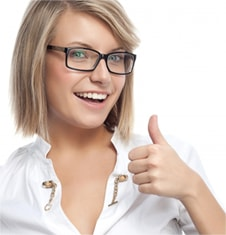
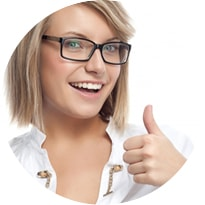
otziv

diff --git a/public/css/style.min.css b/public/css/style.min.css
@@ -1,1 +1,1 @@
-/*! normalize.css v7.0.0 | MIT License | github.com/necolas/normalize.css */html{line-height:1.15;-ms-text-size-adjust:100%;-webkit-text-size-adjust:100%}body{margin:0}article,aside,footer,header,nav,section{display:block}h1{font-size:2em;margin:.67em 0}figcaption,figure,main{display:block}figure{margin:1em 40px}hr{box-sizing:content-box;height:0;overflow:visible}pre{font-family:monospace,monospace;font-size:1em}a{background-color:transparent;-webkit-text-decoration-skip:objects}abbr[title]{border-bottom:none;text-decoration:underline;text-decoration:underline dotted}b,strong{font-weight:inherit}b,strong{font-weight:bolder}code,kbd,samp{font-family:monospace,monospace;font-size:1em}dfn{font-style:italic}mark{background-color:#ff0;color:#000}small{font-size:80%}sub,sup{font-size:75%;line-height:0;position:relative;vertical-align:baseline}sub{bottom:-.25em}sup{top:-.5em}audio,video{display:inline-block}audio:not([controls]){display:none;height:0}img{border-style:none}svg:not(:root){overflow:hidden}button,input,optgroup,select,textarea{font-family:sans-serif;font-size:100%;line-height:1.15;margin:0}button,input{overflow:visible}button,select{text-transform:none}[type=reset],[type=submit],button,html [type=button]{-webkit-appearance:button}[type=button]::-moz-focus-inner,[type=reset]::-moz-focus-inner,[type=submit]::-moz-focus-inner,button::-moz-focus-inner{border-style:none;padding:0}[type=button]:-moz-focusring,[type=reset]:-moz-focusring,[type=submit]:-moz-focusring,button:-moz-focusring{outline:1px dotted ButtonText}fieldset{padding:.35em .75em .625em}legend{box-sizing:border-box;color:inherit;display:table;max-width:100%;padding:0;white-space:normal}progress{display:inline-block;vertical-align:baseline}textarea{overflow:auto}[type=checkbox],[type=radio]{box-sizing:border-box;padding:0}[type=number]::-webkit-inner-spin-button,[type=number]::-webkit-outer-spin-button{height:auto}[type=search]{-webkit-appearance:textfield;outline-offset:-2px}[type=search]::-webkit-search-cancel-button,[type=search]::-webkit-search-decoration{-webkit-appearance:none}::-webkit-file-upload-button{-webkit-appearance:button;font:inherit}details,menu{display:block}summary{display:list-item}canvas{display:inline-block}template{display:none}[hidden]{display:none}.slick-slider{position:relative;display:block;box-sizing:border-box;-webkit-touch-callout:none;-webkit-user-select:none;-khtml-user-select:none;-moz-user-select:none;-ms-user-select:none;user-select:none;-ms-touch-action:pan-y;touch-action:pan-y;-webkit-tap-highlight-color:transparent}.slick-slider a:focus,.slick-slider img:focus{outline:0}.slick-list{position:relative;overflow:hidden;display:block;margin:0;padding:0}.slick-list:focus{outline:0}.slick-list.dragging{cursor:pointer;cursor:hand}.slick-slider .slick-list,.slick-slider .slick-track{-webkit-transform:translate3d(0,0,0);-moz-transform:translate3d(0,0,0);-ms-transform:translate3d(0,0,0);-o-transform:translate3d(0,0,0);transform:translate3d(0,0,0)}.slick-track{position:relative;left:0;top:0;display:block}.slick-track:after,.slick-track:before{content:"";display:table}.slick-track:after{clear:both}.slick-loading .slick-track{visibility:hidden}.slick-slide{float:left;height:100%;min-height:1px;display:none}[dir=rtl] .slick-slide{float:right}.slick-slide img{display:block}.slick-slide.slick-loading img{display:none}.slick-slide:focus{outline:0}.slick-slide.dragging img{pointer-events:none}.slick-initialized .slick-slide{display:block}.slick-loading .slick-slide{visibility:hidden}.slick-vertical .slick-slide{display:block;height:auto;border:1px solid transparent}.slick-arrow.slick-hidden{display:none}*{box-sizing:border-box}:after,:before{box-sizing:border-box}.clearfix:after{content:"";display:block;clear:both}h1{font-weight:400;font-size:26px;margin:0 0 35px;color:#111}h2{font-weight:400;font-size:42px;margin:0 0 20px;color:#111}h3{font-weight:400;font-size:20px;margin:0 0 20px;color:#111}a{transition:all .2s ease;color:#454445;text-decoration:none}a:hover{text-decoration:none}a[href^="tel:"]{text-decoration:none;color:#454445;cursor:default}ul{margin:0;padding:6px 0}li{list-style-type:none}p{margin:0 0 20px;line-height:1.4}html{font-size:100%;-webkit-tap-highlight-color:transparent}body{font-family:Ubuntu,sans-serif;font-weight:400;font-size:14px;color:#454445}.wrap{width:1180px;margin:0 auto;padding:0 20px}.page-section{padding:60px 0}.page-section h1,.page-section h2{text-align:center}.page-section--grey{background-color:#f8f8f8}.page-section__subtitle{text-align:center;margin-bottom:40px}.page-section__text{text-align:center;max-width:80%;margin:0 auto}.header__top{background-color:#454445}.header__top-list{display:flex;justify-content:flex-end}.header__top-list li{display:inline-block;margin-left:16px}.header__top-list ul :nth-child(4){background-color:#fc5835;padding:1px 11px;border-radius:5px}.header__top-list a{color:#fff}.header__middle{display:flex;justify-content:space-between}.header__middle-logo{margin:auto 0}.header__middle-text{margin:auto 0}.header__middle-text p{margin:0}.header__middle-btn{margin:auto 0}.header__middle-btn a{display:block;border:1px solid #159493;padding:6px 20px;border-radius:23px;color:#159493}.header__middle-btn a:hover{background-color:#159493;color:#fff}.header__middle-contacts p:nth-child(1){margin:10px 0;font-size:25.5px}.header__middle-contacts a:nth-child(2){color:#fc5835;margin:0;font-size:17px}.header__middle-contacts a:nth-child(2):hover{color:#fda594}.header__middle-contacts p:nth-child(3){margin:0;font-size:15.1px;margin-bottom:10px}.header__bottom{border-top:1px solid #dcdcdc;box-shadow:0 9px 20px 0 rgba(45,44,45,.24)}.header__bottom-list{display:flex;justify-content:space-between}.header__bottom-list li{padding:10px 0}.header__bottom-list a:hover{color:#fc5835}.content{margin-top:25px;display:flex;justify-content:space-between}.sidebar{width:275px}.sidebar-state{border:1px solid #dcdcdc;box-shadow:0 4px 9px 0 rgba(45,44,45,.2);margin-bottom:20px}.sidebar-state p{margin:20px 0 20px;text-align:center}.sidebar-state form{text-align:center;margin-bottom:20px}.sidebar-state form input{border-color:#454445;padding:10px 28px;border-radius:33px;background-image:url(../images/search.png);background-repeat:no-repeat;background-position:left center;background-position:10px;outline:0}.sidebar-fastorder{display:flex;justify-content:center;border:1px solid #dcdcdc;box-shadow:0 4px 9px 0 rgba(45,44,45,.2);margin-bottom:20px}.sidebar-fastorder a{margin:20px 20px 20px 0}.sidebar-fastorder p{margin:auto 0}.sidebar-news h4{margin-bottom:0}.sidebar-news p{margin:10px 0 20px 0}.sidebar-news a{color:#fc5835}.section{width:820px}.section h1{text-align:center;margin-top:35px}.section-banner{background-image:url(../images/banner.jpg);height:194px;box-shadow:0 4px 9px 0 rgba(45,44,45,.2)}.section-banner__text{color:#fff;padding-left:240px;padding-top:45px}.section-banner__text p{padding:0;margin:0;line-height:.9}.section-banner__text p:nth-child(1){font-size:39px;font-weight:900}.section-banner__text p:nth-child(2){font-size:57px;font-weight:900}.section-banner__text p:nth-child(3){font-size:21px;font-weight:300}.section-katalog{display:flex;justify-content:space-between;flex-wrap:wrap}.section-katalog--wrap{width:252px;height:237px;display:flex;justify-content:space-between;margin-bottom:20px;box-shadow:0 4px 9px 0 rgba(45,44,45,.2)}.section-katalog--wrap p{margin:82% 10px 10px 10px;color:#fff}.section-katalog__card{background-image:url(../images/card.jpg)}.section-katalog__listovki{background-image:url(../images/listovki.jpg)}.section-katalog__buklet{background-image:url(../images/buklet.jpg)}.section-katalog__plakat{background-image:url(../images/plakat.jpg)}.section-katalog__kalendar{background-image:url(../images/kalendar.jpg)}.section-katalog__broshura{background-image:url(../images/broshura.jpg)}.section-katalog__book{background-image:url(../images/book.jpg)}.section-katalog__pechat{background-image:url(../images/pechat.jpg)}.section-katalog__more{background-image:url(../images/more.jpg)}.section-otziv__i--text{width:67%}.section-otziv__i--photo{width:33%}.otziv-wrapper{display:flex;justify-content:space-around}.footer{background-color:#292825;padding:25px 0;color:rgba(255,255,255,.7);font-size:16px}.footer__wrap{display:flex;justify-content:space-between}.footer__soc a{display:inline-block;margin-left:10px}.footer__soc a:hover{opacity:.7}
+/*! normalize.css v7.0.0 | MIT License | github.com/necolas/normalize.css */html{line-height:1.15;-ms-text-size-adjust:100%;-webkit-text-size-adjust:100%}body{margin:0}article,aside,footer,header,nav,section{display:block}h1{font-size:2em;margin:.67em 0}figcaption,figure,main{display:block}figure{margin:1em 40px}hr{box-sizing:content-box;height:0;overflow:visible}pre{font-family:monospace,monospace;font-size:1em}a{background-color:transparent;-webkit-text-decoration-skip:objects}abbr[title]{border-bottom:none;text-decoration:underline;text-decoration:underline dotted}b,strong{font-weight:inherit}b,strong{font-weight:bolder}code,kbd,samp{font-family:monospace,monospace;font-size:1em}dfn{font-style:italic}mark{background-color:#ff0;color:#000}small{font-size:80%}sub,sup{font-size:75%;line-height:0;position:relative;vertical-align:baseline}sub{bottom:-.25em}sup{top:-.5em}audio,video{display:inline-block}audio:not([controls]){display:none;height:0}img{border-style:none}svg:not(:root){overflow:hidden}button,input,optgroup,select,textarea{font-family:sans-serif;font-size:100%;line-height:1.15;margin:0}button,input{overflow:visible}button,select{text-transform:none}[type=reset],[type=submit],button,html [type=button]{-webkit-appearance:button}[type=button]::-moz-focus-inner,[type=reset]::-moz-focus-inner,[type=submit]::-moz-focus-inner,button::-moz-focus-inner{border-style:none;padding:0}[type=button]:-moz-focusring,[type=reset]:-moz-focusring,[type=submit]:-moz-focusring,button:-moz-focusring{outline:1px dotted ButtonText}fieldset{padding:.35em .75em .625em}legend{box-sizing:border-box;color:inherit;display:table;max-width:100%;padding:0;white-space:normal}progress{display:inline-block;vertical-align:baseline}textarea{overflow:auto}[type=checkbox],[type=radio]{box-sizing:border-box;padding:0}[type=number]::-webkit-inner-spin-button,[type=number]::-webkit-outer-spin-button{height:auto}[type=search]{-webkit-appearance:textfield;outline-offset:-2px}[type=search]::-webkit-search-cancel-button,[type=search]::-webkit-search-decoration{-webkit-appearance:none}::-webkit-file-upload-button{-webkit-appearance:button;font:inherit}details,menu{display:block}summary{display:list-item}canvas{display:inline-block}template{display:none}[hidden]{display:none}.slick-slider{position:relative;display:block;box-sizing:border-box;-webkit-touch-callout:none;-webkit-user-select:none;-khtml-user-select:none;-moz-user-select:none;-ms-user-select:none;user-select:none;-ms-touch-action:pan-y;touch-action:pan-y;-webkit-tap-highlight-color:transparent}.slick-slider a:focus,.slick-slider img:focus{outline:0}.slick-list{position:relative;overflow:hidden;display:block;margin:0;padding:0}.slick-list:focus{outline:0}.slick-list.dragging{cursor:pointer;cursor:hand}.slick-slider .slick-list,.slick-slider .slick-track{-webkit-transform:translate3d(0,0,0);-moz-transform:translate3d(0,0,0);-ms-transform:translate3d(0,0,0);-o-transform:translate3d(0,0,0);transform:translate3d(0,0,0)}.slick-track{position:relative;left:0;top:0;display:block}.slick-track:after,.slick-track:before{content:"";display:table}.slick-track:after{clear:both}.slick-loading .slick-track{visibility:hidden}.slick-slide{float:left;height:100%;min-height:1px;display:none}[dir=rtl] .slick-slide{float:right}.slick-slide img{display:block}.slick-slide.slick-loading img{display:none}.slick-slide:focus{outline:0}.slick-slide.dragging img{pointer-events:none}.slick-initialized .slick-slide{display:block}.slick-loading .slick-slide{visibility:hidden}.slick-vertical .slick-slide{display:block;height:auto;border:1px solid transparent}.slick-arrow.slick-hidden{display:none}*{box-sizing:border-box}:after,:before{box-sizing:border-box}.clearfix:after{content:"";display:block;clear:both}h1{font-weight:400;font-size:26px;margin:0 0 35px;color:#111}h2{font-weight:400;font-size:42px;margin:0 0 20px;color:#111}h3{font-weight:400;font-size:20px;margin:0 0 20px;color:#111}a{transition:all .2s ease;color:#454445;text-decoration:none}a:hover{text-decoration:none}a[href^="tel:"]{text-decoration:none;color:#454445;cursor:default}ul{margin:0;padding:6px 0}li{list-style-type:none}p{margin:0 0 20px;line-height:1.4}html{font-size:100%;-webkit-tap-highlight-color:transparent}body{font-family:Ubuntu,sans-serif;font-weight:400;font-size:14px;color:#454445}.wrap{width:1180px;margin:0 auto;padding:0 20px}.page-section{padding:60px 0}.page-section h1,.page-section h2{text-align:center}.page-section--grey{background-color:#f8f8f8}.page-section__subtitle{text-align:center;margin-bottom:40px}.page-section__text{text-align:center;max-width:80%;margin:0 auto}.header__top{background-color:#454445}.header__top-list{display:flex;justify-content:flex-end}.header__top-list li{display:inline-block;margin-left:16px}.header__top-list ul :nth-child(4){background-color:#fc5835;padding:1px 11px;border-radius:5px}.header__top-list a{color:#fff}.header__middle{display:flex;justify-content:space-between}.header__middle-logo{margin:auto 0}.header__middle-text{margin:auto 0}.header__middle-text p{margin:0}.header__middle-btn{margin:auto 0}.header__middle-btn a{display:block;border:1px solid #159493;padding:6px 20px;border-radius:23px;color:#159493}.header__middle-btn a:hover{background-color:#159493;color:#fff}.header__middle-contacts p:nth-child(1){margin:10px 0;font-size:25.5px}.header__middle-contacts a:nth-child(2){color:#fc5835;margin:0;font-size:17px}.header__middle-contacts a:nth-child(2):hover{color:#fda594}.header__middle-contacts p:nth-child(3){margin:0;font-size:15.1px;margin-bottom:10px}.header__bottom{border-top:1px solid #dcdcdc;box-shadow:0 9px 20px 0 rgba(45,44,45,.24)}.header__bottom-list{display:flex;justify-content:space-between}.header__bottom-list li{padding:10px 0}.header__bottom-list a:hover{color:#fc5835}.content{margin-top:25px;display:flex;justify-content:space-between}.sidebar{width:275px}.sidebar-state{border:1px solid #dcdcdc;box-shadow:0 4px 9px 0 rgba(45,44,45,.2);margin-bottom:20px}.sidebar-state p{margin:20px 0 20px;text-align:center}.sidebar-state form{text-align:center;margin-bottom:20px}.sidebar-state form input{border-color:#454445;padding:10px 28px;border-radius:33px;background-image:url(../images/search.png);background-repeat:no-repeat;background-position:left center;background-position:10px;outline:0}.sidebar-fastorder{display:flex;justify-content:center;border:1px solid #dcdcdc;box-shadow:0 4px 9px 0 rgba(45,44,45,.2);margin-bottom:20px}.sidebar-fastorder a{margin:20px 20px 20px 0}.sidebar-fastorder p{margin:auto 0}.sidebar-news h4{margin-bottom:0}.sidebar-news p{margin:10px 0 20px 0}.sidebar-news a{color:#fc5835}.section{width:820px}.section h1{text-align:center;margin-top:35px}.section-banner{background-image:url(../images/banner.jpg);height:194px;box-shadow:0 4px 9px 0 rgba(45,44,45,.2)}.section-banner__text{color:#fff;padding-left:240px;padding-top:45px}.section-banner__text p{padding:0;margin:0;line-height:.9}.section-banner__text p:nth-child(1){font-size:39px;font-weight:900}.section-banner__text p:nth-child(2){font-size:57px;font-weight:900}.section-banner__text p:nth-child(3){font-size:21px;font-weight:300}.section-katalog{display:flex;justify-content:space-between;flex-wrap:wrap}.section-katalog--wrap{width:252px;height:237px;display:flex;justify-content:space-between;margin-bottom:20px;box-shadow:0 4px 9px 0 rgba(45,44,45,.2)}.section-katalog--wrap p{margin:82% 10px 10px 10px;color:#fff}.section-katalog__card{background-image:url(../images/card.jpg)}.section-katalog__listovki{background-image:url(../images/listovki.jpg)}.section-katalog__buklet{background-image:url(../images/buklet.jpg)}.section-katalog__plakat{background-image:url(../images/plakat.jpg)}.section-katalog__kalendar{background-image:url(../images/kalendar.jpg)}.section-katalog__broshura{background-image:url(../images/broshura.jpg)}.section-katalog__book{background-image:url(../images/book.jpg)}.section-katalog__pechat{background-image:url(../images/pechat.jpg)}.section-katalog__more{background-image:url(../images/more.jpg)}.section-otziv{height:273px}.section-otziv__i--text{width:67%;margin-right:65px;border-right:7px solid #fc5835;position:relative;background:#88b7d5}.section-otziv__i--text::after{left:100%;top:50%;border:solid transparent;content:" ";height:0;width:0;position:absolute;pointer-events:none;border-color:rgba(136,183,213,0);border-left-color:#fc5835;border-width:30px;margin-top:-30px}.section-otziv__i--text p{margin:85px 80px 0 80px}.section-otziv__i--photo{width:33%}.section-otziv__i--photo img{margin:auto}.section-otziv__i--photo p{text-align:center;line-height:.3;margin-top:20px}.otziv-wrapper{display:flex;justify-content:space-around}.section-otziv__i--text{background-color:#eff3f7}.footer{background-color:#292825;padding:25px 0;color:rgba(255,255,255,.7);font-size:16px}.footer__wrap{display:flex;justify-content:space-between}.footer__soc a{display:inline-block;margin-left:10px}.footer__soc a:hover{opacity:.7}

diff --git a/public/index.html b/public/index.html
@@ -108,9 +108,9 @@
                 <div class="section-otziv__i--text">
                   <p>Lorem ipsum dolor sit amet consectetur adipisicing elit. Numquam neque officiis, repellendus omnis inventore reprehenderit dolores non molestias asperiores. Nemo necessitatibus est perspiciatis numquam sed libero, officia voluptates aperiam iusto.</p>
                 </div>
-                <div class="section-otziv__i--photo"><img src="/images/vala.jpg" alt="">
-                  <p>Валентина Петровна</p>
-                  <p>"Колбасы из мяса"</p>
+                <div class="section-otziv__i--photo"><img src="/images/vala.png" alt="">
+                  <p>Оксана Победова</p>
+                  <p>Аптечная сеть "Валли" </p>
                 </div>
               </div>
             </div>
@@ -119,24 +119,25 @@
                 <div class="section-otziv__i--text">
                   <p>Lorem ipsum dolor sit amet consectetur adipisicing elit. Numquam neque officiis, repellendus omnis inventore reprehenderit dolores non molestias asperiores. Nemo necessitatibus est perspiciatis numquam sed libero, officia voluptates aperiam iusto.</p>
                 </div>
-                <div class="section-otziv__i--photo"><img src="/images/banner.jpg" alt="">
-                  <p>Валентина Петровна</p>
-                  <p>"Колбасы из мяса"</p>
+                <div class="section-otziv__i--photo"><img src="/images/miha.png" alt="">
+                  <p>Михаил Дрозд</p>
+                  <p>Пекарня "У дома"</p>
                 </div>
               </div>
             </div>
             <div class="section-otziv__i">
               <div class="otziv-wrapper">
                 <div class="section-otziv__i--text">
-                  <p>Lorem ipsum dolor sit amet consectetur adipisicing elit. Numquam neque officiis, repellendus omnis inventore reprehenderit dolores non molestias asperiores. Nemo necessitatibus est perspiciatis numquam sed libero, officia voluptates aperiam iusto.</p>
+                  <p>Lorem ipsum dolor sit amet consectetur adipisicing elit.</p>
                 </div>
-                <div class="section-otziv__i--photo"><img src="/images/listovki.jpg" alt="">
-                  <p>Валентина Петровна</p>
-                  <p>"Колбасы из мяса"</p>
+                <div class="section-otziv__i--photo"><img src="/images/kate.png" alt="">
+                  <p>Екатерина Александрова</p>
+                  <p>SPA салон "Желание"</p>
                 </div>
               </div>
             </div>
           </div>
+          <h1>Наши клиенты</h1>
         </section>
       </div>
     </div>

diff --git a/src/style/_mainpage.sass b/src/style/_mainpage.sass
@@ -129,12 +129,43 @@
 
 // otziv
 
+.section-otziv
+	height: 273px
+
 .section-otziv__i--text
 	width: 67%
-	
+	margin-right: 65px
+	border-right: 7px solid $orange
+	position: relative
+	background: #88b7d5
+	&::after 
+		left: 100%
+		top: 50%
+		border: solid transparent
+		content: " "
+		height: 0
+		width: 0
+		position: absolute
+		pointer-events: none
+		border-color: rgba(136, 183, 213, 0)
+		border-left-color: $orange
+		border-width: 30px
+		margin-top: -30px
+	p
+		margin: 85px 80px 0 80px
+
 .section-otziv__i--photo
 	width: 33%
-
+	img
+		margin: auto
+	p
+		text-align: center
+		line-height: 0.3
+		margin-top: 20px
+		
 .otziv-wrapper
 	display: flex
 	justify-content: space-around
+
+.section-otziv__i--text
+	background-color: #eff3f7

diff --git a/public/js/main.js b/public/js/main.js
@@ -1,12 +1,13 @@
 $(document).ready(function() {
 	//slider
 	$('.js-main-slider').slick({
-		dots: true, 
+		dots: false, 
 		arrows: false, 
 		slidesToShow: 1,
 		slidesToScroll: 1,
 		fade: true,
-		autoplay: true
+		autoplay: true,
+		autoplaySpeed: 1000
 	});
 
 	//scroll-link

diff --git a/src/js/main.js b/src/js/main.js
@@ -1,12 +1,13 @@
 $(document).ready(function() {
 	//slider
 	$('.js-main-slider').slick({
-		dots: true, 
+		dots: false, 
 		arrows: false, 
 		slidesToShow: 1,
 		slidesToScroll: 1,
 		fade: true,
-		autoplay: true
+		autoplay: true,
+		autoplaySpeed: 1000
 	});
 
 	//scroll-link
